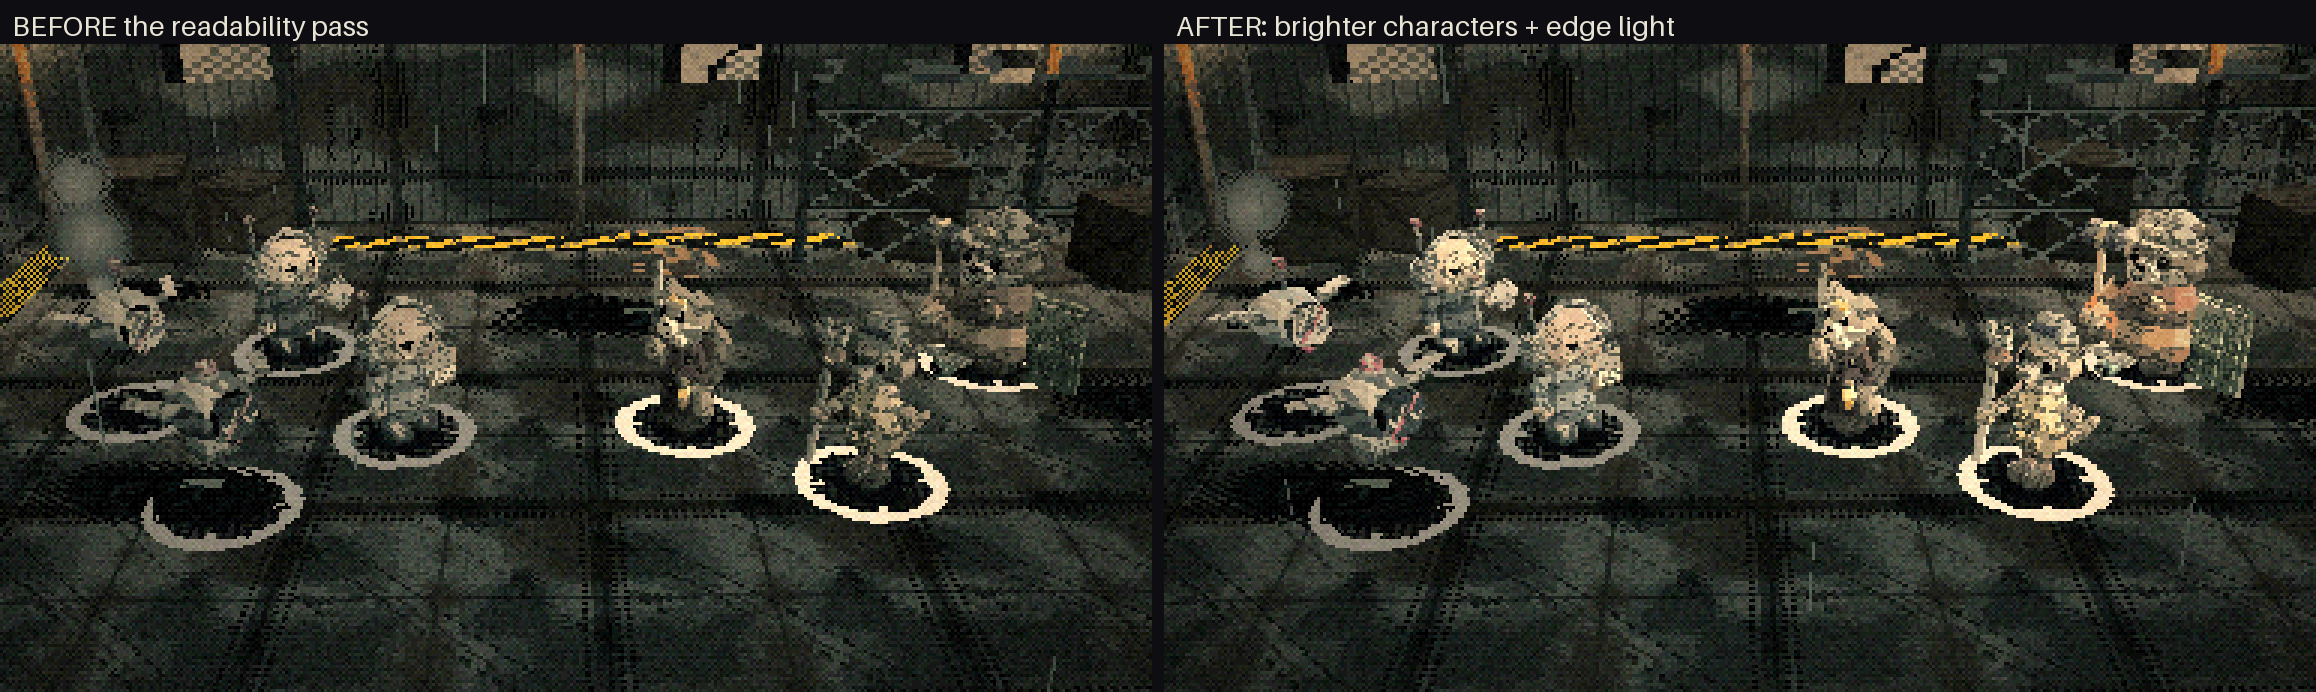
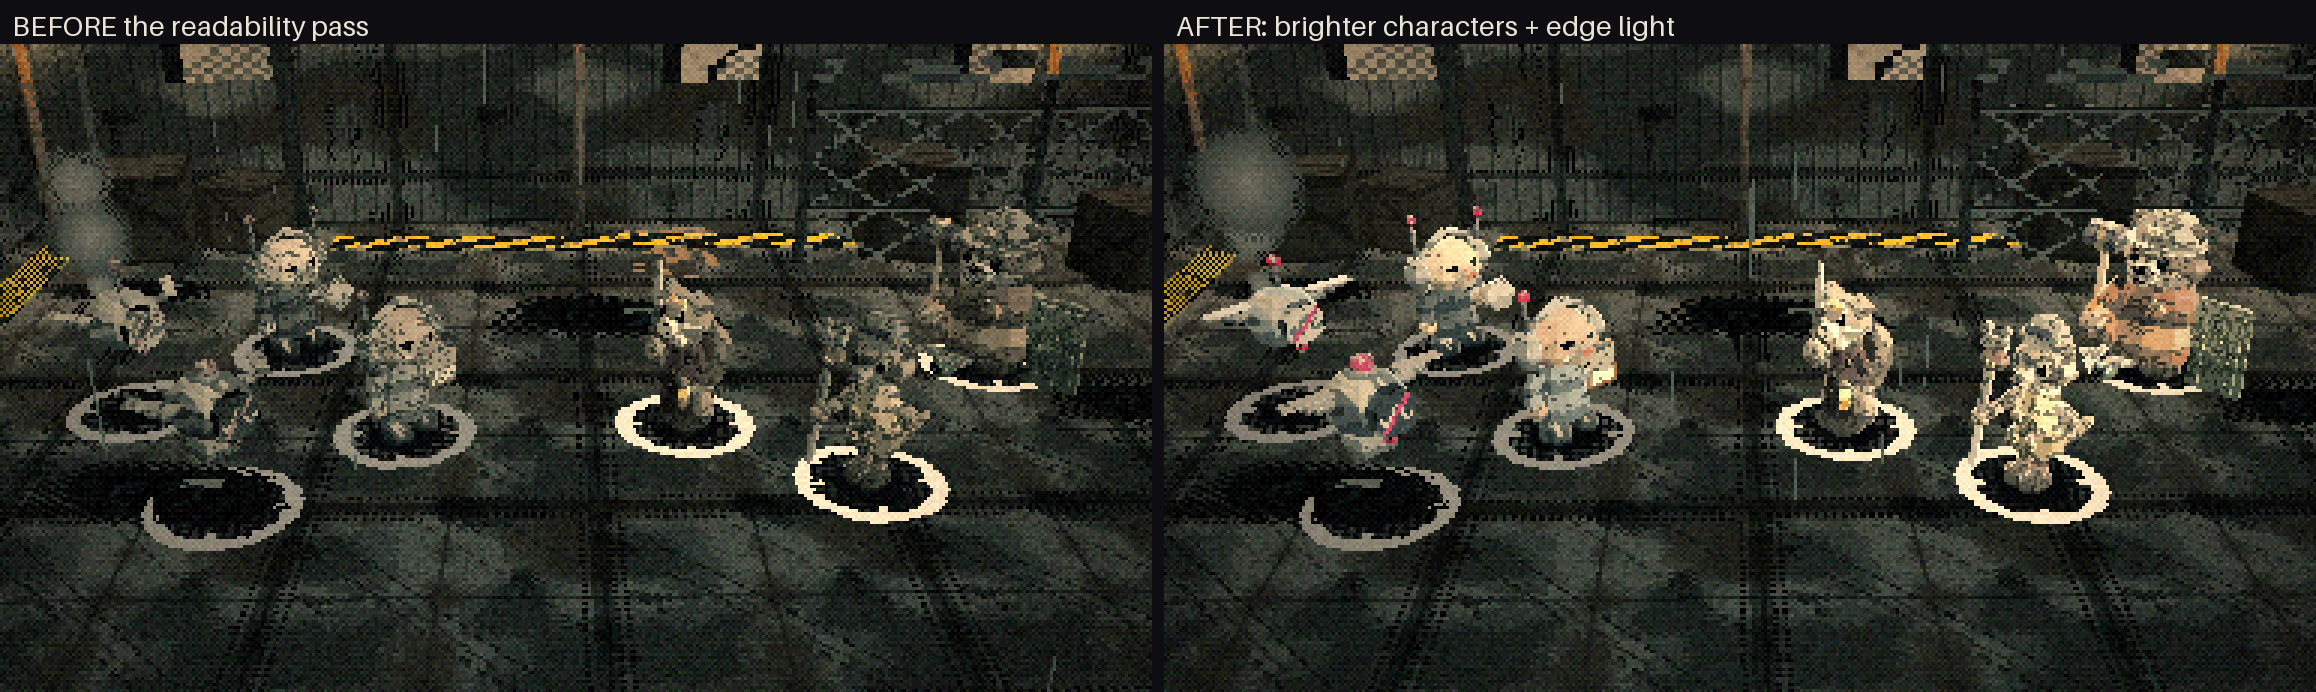
Docs made official for the grim package: story bible, design doc, maps (ore train new; Spillway + jammer works), style guide, art/audio requests; log train inspector call.
Claude-Session: https://claude.ai/code/session_012jSmZ4BPCmd8jMXHsVXFG6

diff --git a/game/scripts/tools/make_grim_dressing.py b/game/scripts/tools/make_grim_dressing.py
@@ -57,7 +57,7 @@ def interior(x0, x1, z0, z1, neon, color, screen_text="ALL CLEAR", wall_h=3.0, v
         P("steam", [x0 + w * 0.82, 0, z0 + d * 0.28], rise=0.9),
         P("puddle", [x0 + w * 0.58, 0, z0 + d * 0.7], size=[1.2, 0.8]),
         P("stripes", [x0 + w * 0.5, 0.03, z0 + 0.3], size=[w * 0.55, 0.03, 0.18]),
-        P("smear", [x0 + w * 0.55, 0, z0 + 1.0], size=[0.6, 1.1], color=color),
+        P("smear", [x0 + w * 0.55, 0, z0 + 0.8], size=[0.6, 0.9], color=color, energy=0.35),
     ]
     return {"key_light": {"color": "#d4e4e0", "energy": 0.8, "dir_deg": [-48.0, 36.0]}, "items": items}
 

diff --git a/docs/audio_requests.md b/docs/audio_requests.md
@@ -75,3 +75,20 @@ Every `battle_*` id from docs/battle_api.md has a placeholder WAV in `game/audio
 | 41 | `battle_victory` | Victory screen start (one press skips) | Short, cocky, triumphant; rising arpeggio, a little turn, a big held chord with a cymbal. Original tune; the full row 2 fanfare replaces it | ~2 s | No | Sunny 90s JRPG "we won" sting; melody must be original | Placeholder built; final TBD (row 2) |
 | 42 | `battle_game_over` | All three down | Comically deflated, never grim: sagging "wah" notes and a long droop | ~2 s | No | A sad-trombone shrug; the full row 3 jingle replaces it | Placeholder built; final TBD (row 3) |
 | 43 | `battle_menu_open` | Battle command menu opens | Tiny bright rising chirp | ~0.17 s | No | A crisp UI blip | Placeholder built; final TBD |
+
+### Structure and tone pass additions (added 2026-10-08, from Ross's approvals: the ore-train opening, the Spillway, the jammer works, Quiet Hours)
+Seven SFX (the slice goes from 40 to 47). No new music track: the train uses a stripped mix of row 5. Maps: docs/maps/ore_train.md, docs/maps/harrow_landing.md, docs/maps/road_and_tower.md.
+
+| # | Name | Type (music / SFX / jingle) | Where it plays | Mood | Tempo | Length | Loops? | Priority | Status |
+|---|---|---|---|---|---|---|---|---|---|
+| 44 | **Quiet Hours curfew siren** (built from Vane's fanfare) | SFX (1) | Every night at Quiet Hours over Harrow. In the slice: it starts as Red lands on the freight platform after the train jump, wails while she runs home, and stops when she lights her window lamp. Later: the lockdown and the curfew re-dress | The **first eight notes of Admiral Vane's fanfare**, played slowly through a cheap, distorted public-address air-raid siren: wavering pitch, the notes sliding into each other, an echo off the stacked shacks. Triumphant music made oppressive: the tyrant's theme as an alarm clock. Grim, a little absurd, never comic | Slow (each note about 1 to 1.5 s) | ~12–15 s, plus a 2–3 s echo tail | Can loop (a loop point after the 8 notes) | P3 | Requested |
+| 45 | Train ambience: wheels, wind, couplings | SFX (1, ambience bed) | All three train cars; a slight pan as the camera slides | Steady wheel clatter on rail joints, wind across open cars, chains and couplings clanking, the odd brake squeal; a little muffled inside the boxcar (C3). Under row 5's stripped mix | Wheel rhythm about 2 clacks per second | ~20–30 s | Yes | P3 | Requested |
+| 46 | Spillway ambience: drips, runoff, the city above | SFX (1, ambience bed) | R1 the Spillway | Runoff trickle, drips, a pipe knocking, and the slums overhead through the grates: muffled footsteps, a propaganda broadcast too far off to make out, a passing hum. Damp and close, not horror | Free | ~20–30 s | Yes | P3 | Requested |
+| 47 | Jammer works machinery | SFX (1, ambience bed) | R2 the Works gate (muffled, through the fence) and T1 to T4b; stops on the roof (T5) | Conveyors, presses, servo whine from the drone line, a deep transformer hum, distant PA chimes. Industrial, oppressive, steady; leaves room for the call layer (row 8) to grow on top each floor | Machine pulse, about the tempo of row 5 | ~30 s | Yes | P3 | Requested |
+| 48 | Inspector scanner sweep | SFX (1) | Each train inspector, positional: a soft electronic sweep that rises and falls with the cone's sweep | Cold, fussy, officious; quiet enough to sit under the train ambience but always readable, so players can hear where the cones are | Follows the cone (about once every 2 s) | ~2 s | Yes | P3 | Requested |
+| 49 | Inspector "spotted" | SFX (1) | The moment a scanner cone catches Red (the cone turns red, a "?" pops over the inspector) | Two sharp descending beeps and a whistle blast; alarming but short. Must not sound like the Clutch ding (row 26) or the boss "!!" warning (row 9) | — | <0.8 s | No | P3 | Requested |
+| 50 | Crate splash | SFX (1) | The train ditch scene: Red shoves the crate into the harbor | A heavy wooden thump on the door rail, a beat of falling, a deep splash with a slosh; the train noise carries on over it | — | ~1.5 s | No | P3 | Requested |
+
+**Vane's fanfare motif (note for the Audio Designer and Ross):** row 44 needs the first eight notes of Vane's fanfare now, so the motif gets written with the slice even though his full fanfare (the lockdown, his boss fight, the Act 3 fleet charge) comes later. Write it as a short, pompous, triumphant brass phrase that still sounds like itself when it's slowed down and played through a siren. Original melody, never copied. It goes to Ross with the music direction (Audio direction is Level 0).
+
+**Reused, not new:** the window relights on the walk home use row 19's "lamp lights" sound, softened; Red's landing on the platform uses row 20's footstep set.

diff --git a/docs/decisions.md b/docs/decisions.md
@@ -5,6 +5,7 @@
 
 | Date | Decision | Options considered | Why |
 |---|---|---|---|
+| 2026-10-08 | **Studio call (Level 1, Game design): train inspectors use the normal map-enemy rules.** If an inspector's scanner spots Red on the ore train, he chases her and it's a regular fight if he catches her (no restart, no fine). Fallback if playtests show nobody sneaks: getting caught restarts that car. Also from the docs pass (Creative Director, overturnable): train uses a stripped mix of the jammer-works track (slice stays at 8 tracks); key item displays as "Claim Slip"; neon teal sits a step duller than the call's teal; Act 1 beats 2–3 updated to the Spillway and jammer works to match D2 A. | A normal chase/fight / B restart the car / C a credit fine | Uses rules players already know; no fail loop in the first minute. Ross can overturn. |
 | 2026-10-08 | **Grim package approved for the next phase.** **Look:** the grim setting is approved; characters and enemies get brighter so they stand out from the background, "not too bright though", with an **edge light** (Look A, as Ross worded it). Grim becomes the default look everywhere after the readability pass. **Tone:** D1 A chilling-funny as written; D2 B about half of Lamp Square's windows dark, a few relight on the walk home after Kasp; D3 B spray-paint stencil rating lettering, still loud. **Structure:** D1 A playable ore-train run opening (~4 min); D2 A the Spillway undercity drain + the Old Relay Tower recast as a Signals jammer factory (approved map choices kept); D3 A Act 2 places Pit Nine (company mining moon) and Breaker's Ring (junk-ring city). First world ≈ 3 h across ten places. Story bible / design doc tone pass and structure pass become official. **Also:** Ross asked for the current characters in an A-pose on a white background so he can create art assets. | Look A/B/C/D; tone D1–D3; structure D1–D3 (all recommended) | Ross: "setting is good, but make characters and enemies brighter to stand out against background, not too bright though - edgelight - the rest is approved for the next phase of development, give me the current characters in an A frame on a white background so I can create art assets" |
 | 2026-10-08 | **Visual direction: desaturate, darken, grime it up.** Art is "a little too vibrant and kiddy": muted grey-brown palette with color kept for accents (lamps, warning stripes, the call's teal), darker overall, generous grime; duller, dirtier character materials. Applies to the grim look test now, then everywhere once Ross signs it off. UI stays as is. | (Direct instruction from Ross) | "the art is a little too vibrant and kiddy - try to desaturate darken grime things up a bit" |
 | 2026-10-08 | **Tone shift A: the world goes grim, the heroes stay loud.** Greasy, gritty sci-fi oppression and hopelessness in the world: dark dirty palette, grime and rust, harsh light, oppressive Signals Corps / Navy presence (checkpoints, propaganda), beaten-down townsfolk. Characters lose the toy cuteness (taller, leaner proportions, scuffed worn outfits, no toy sheen) but **stay anthropomorphic animals**. Red and the crew are the stubborn light in the dark; humor gets drier and comes out of the bleakness. The core story (cycle-breaking, death and rebirth, the climb from foot to god) stays. Replaces the 2026-10-05 tone rule "never grimdark" for the world and look; the heroes keep their hot-blooded heart. Next: a look test (Harrow square + a battle + a less-cute Red) and a tone pass on the story bible and design doc, both back to Ross before rolling out everywhere. | **A world grim, heroes loud** (recommended) / B full grimdark / C look only | Ross: "another thing is the game looks too kiddy, it needs a more grimdark appeal, this is supposed to be greasy gritty sci-fi oppression and hopelessness" · "A" |
